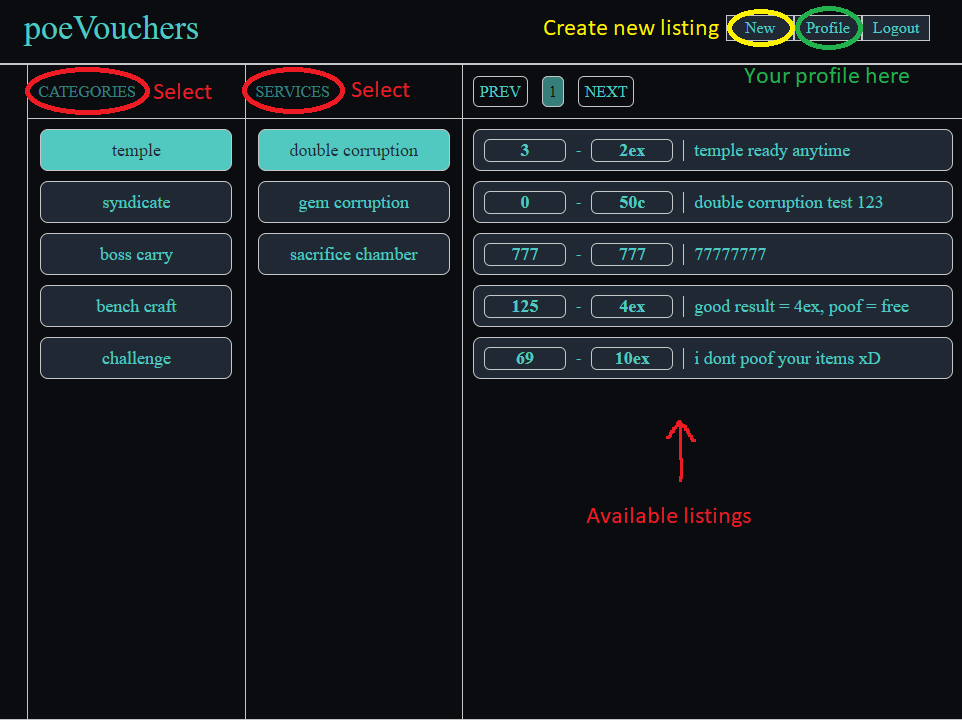
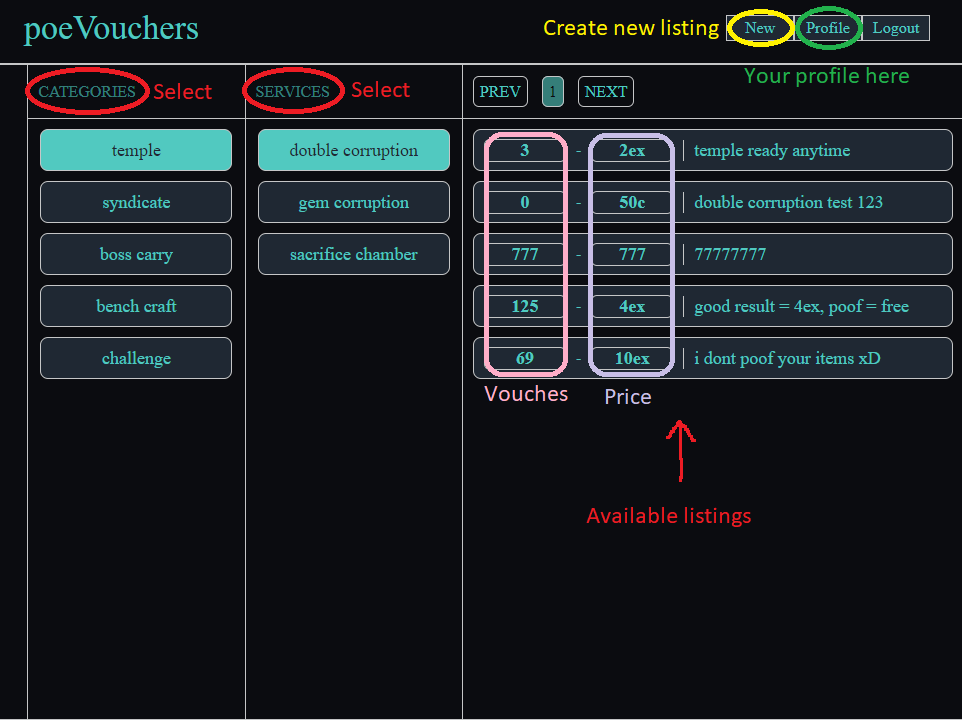
Updated How-To page with more infos

Changed region(s): [[0.499, 0.1833, 0.7173, 0.5806], [0.6237, 0.5194, 0.6861, 0.5806]]

diff --git a/src/HowToPage/HowToPage.js b/src/HowToPage/HowToPage.js
@@ -4,6 +4,7 @@ import homepagepng from "../Assets/Homepage.png";
 import profilepagepng from "../Assets/Profilepage.png";
 import userlistingpagepng from "../Assets/UserListingpage.png";
 import createpng from "../Assets/Create.png";
+import listingpng from "../Assets/Listing.png";
 
 function HowToPage() {
   return (
@@ -57,6 +58,21 @@ function HowToPage() {
             </div>
           </div>
           <img src={homepagepng} alt="homepageimage" />
+          <div className="howto-content-wrapper">
+            <div className="howto-heavy">LISTING</div>
+            <div className="howto-light">
+              You can view details of the listing here
+              <br />
+              1. Listing title, price, more details
+              <br />
+              2. Seller's username, total vouches, discord
+              <br />
+              3. A link to seller's official POE profile
+              <br />
+              *REMEMBER to VOUCH your seller after the service is completed
+            </div>
+          </div>
+          <img src={listingpng} alt="listingimage" />
           <div className="howto-content-wrapper">
             <div className="howto-heavy">PROFILE</div>
             <div className="howto-light">
